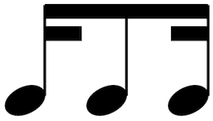
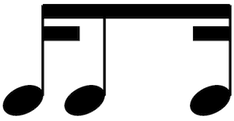
Rythmically/visually accurate spacing

diff --git a/src/Staging.js b/src/Staging.js
@@ -11,7 +11,7 @@ const Staging = () => {
         <div className="stagedNotes">
             {stagedNotes && stagedNotes.map(note =>
                 <div className="stagedNote" key={v4()}>
-                    <img src={note} alt=""></img>
+                    <img src={note} alt="" ></img>
                 </div>
             )}
         </div>

diff --git a/src/StagedNotesContext.js b/src/StagedNotesContext.js
@@ -12,7 +12,7 @@ export function useStagedNotesUpdate() {
 }
 
 export function StagedNotesProvider({ children }) {
-    const [stagedNotes, setStagedNotes] = useState(["./img/Notation_library/Barlines/Barline.png"])
+    const [stagedNotes, setStagedNotes] = useState([])
 
     function updateStagedNotes(newNote) {
         console.log(newNote)
